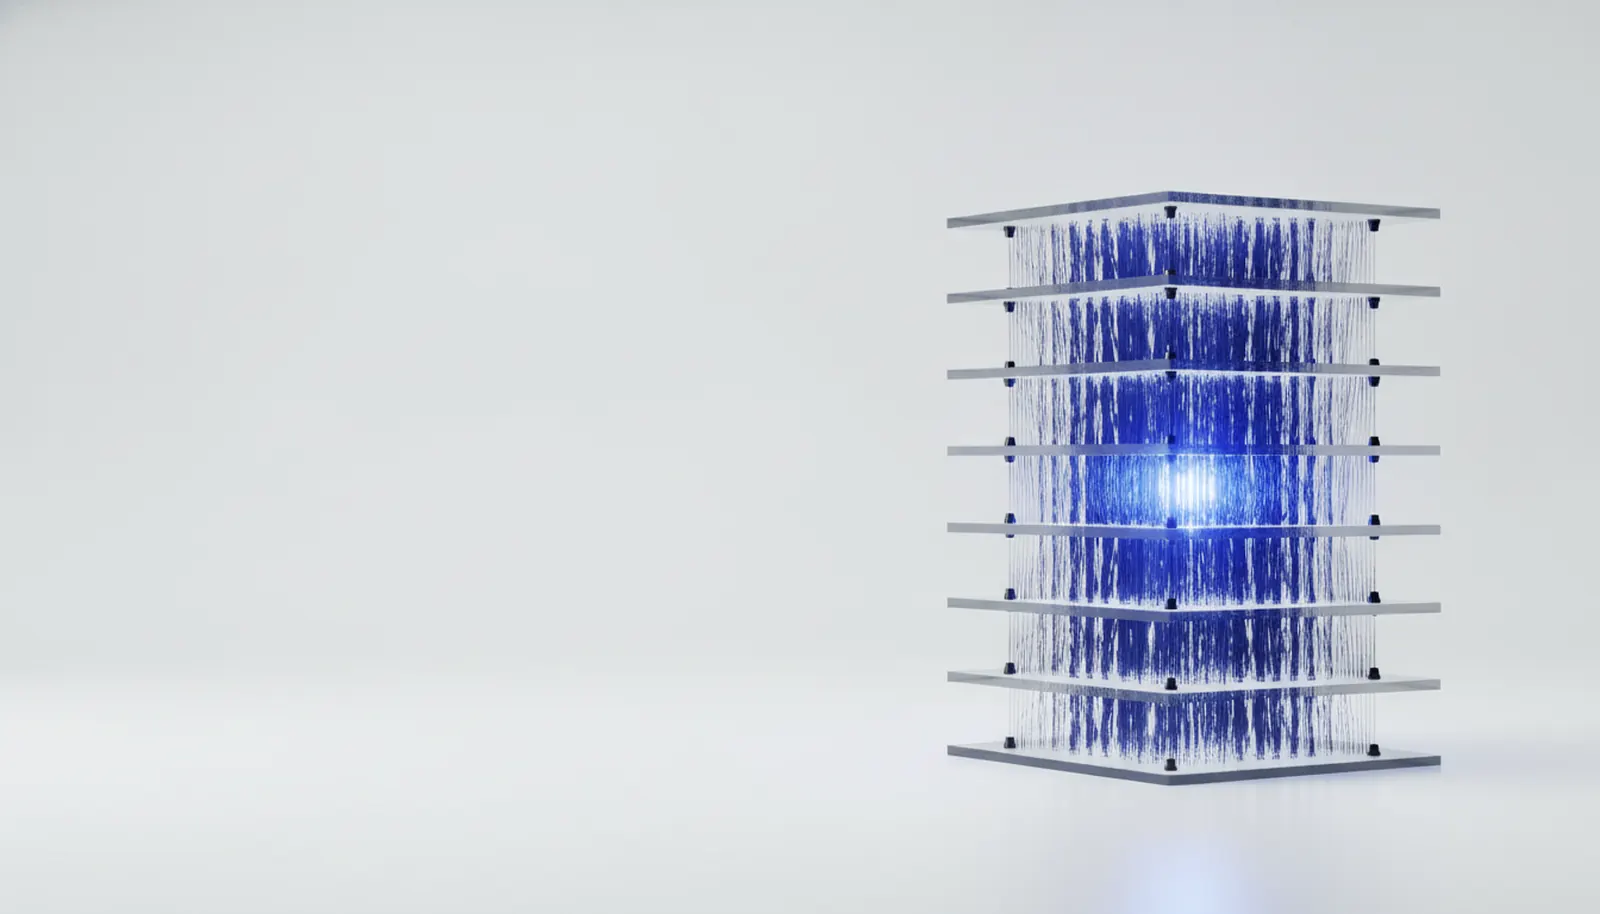
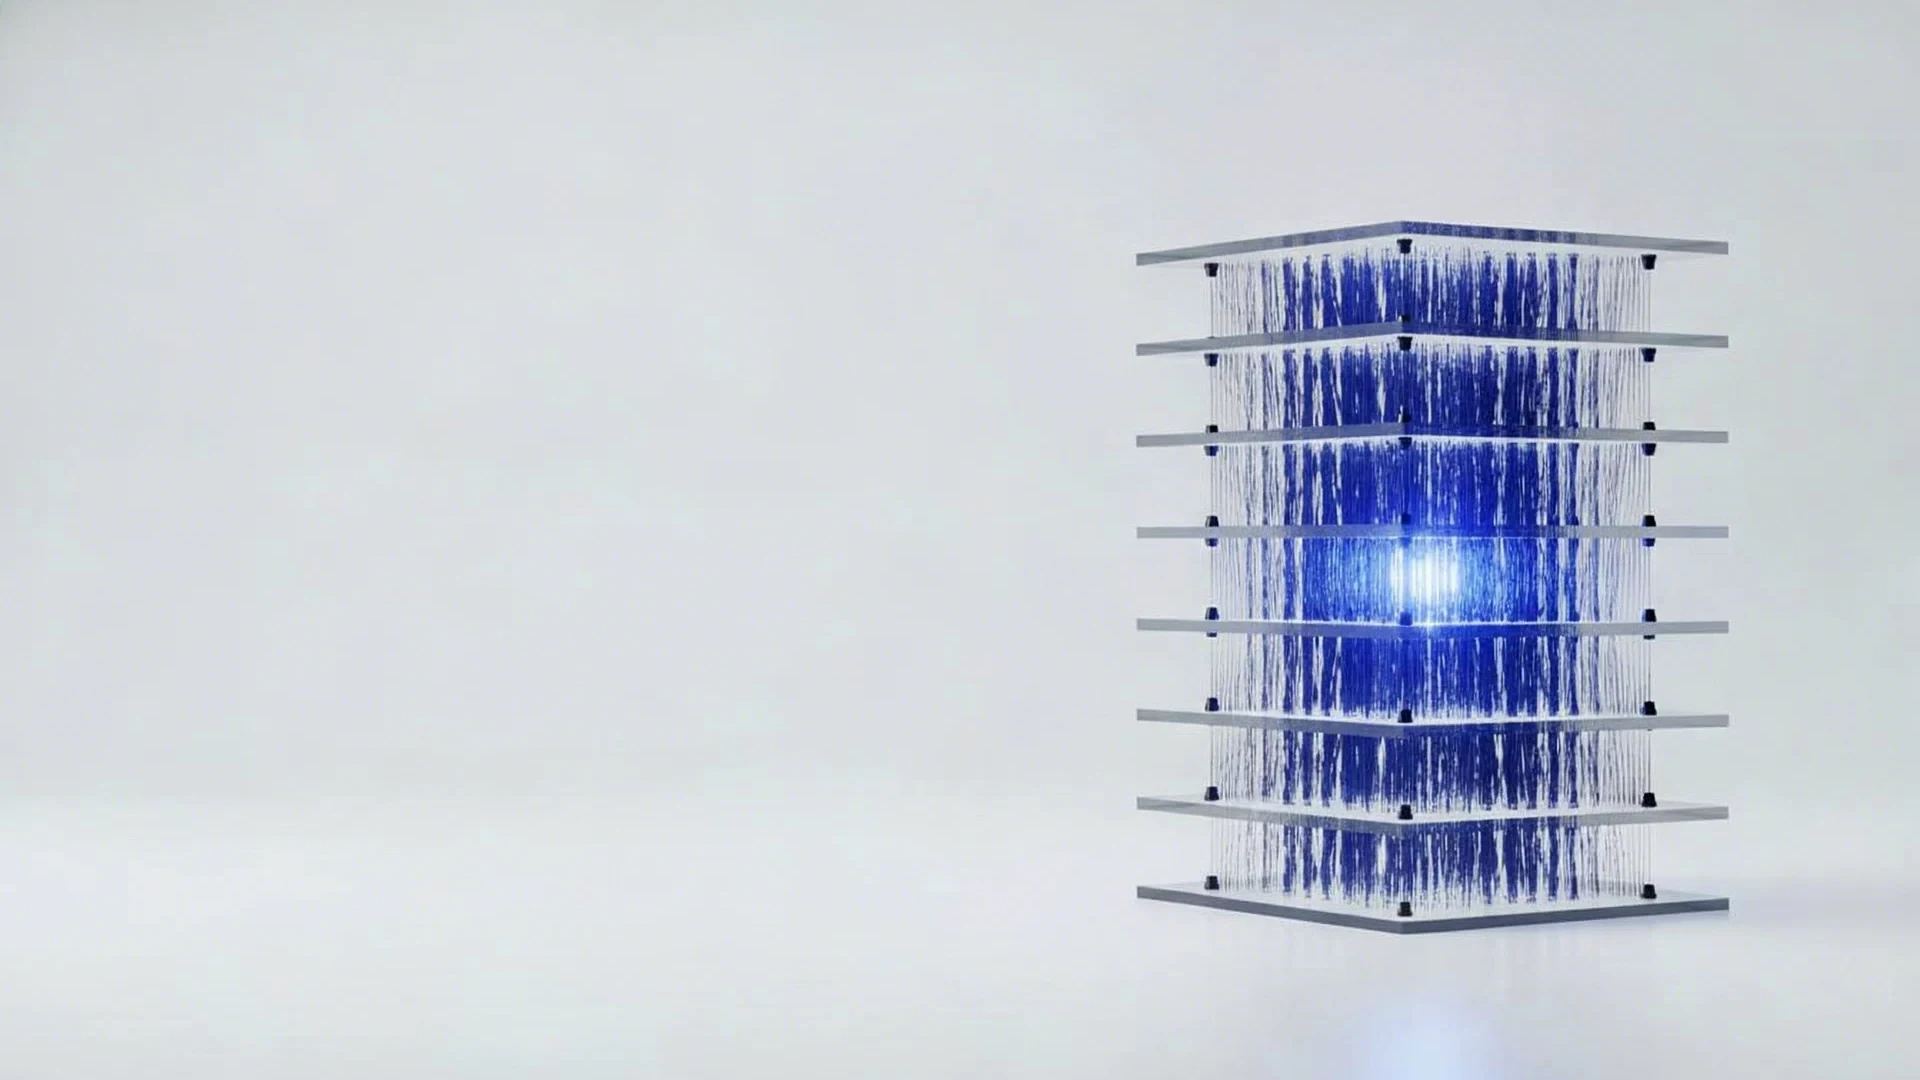
film: bind one keyframe per section, native 1080p stills, no scripted motion
Each frame is now a CSS background inside its own section, so it scrolls
with the section and is already still on arrival. The fixed stage, the
clip autoplay and film.js are gone; below 1280px the images are never
requested. Stills re-extracted from the 1920x1088 clip masters instead
of the upscaled 1344px keyframes.

Claude-Session: https://claude.ai/code/session_01MwbxEwFYbimQFEu7YzUXXt

Changed region(s): [[0.5938, 0.1838, 0.9062, 0.8884]]

diff --git a/index.html b/index.html
@@ -32,22 +32,11 @@
   <a class="skip-link" href="#main">Skip to content</a>
 
   <div class="layer wash" aria-hidden="true"></div>
-  <!-- The film. Presentational only: every still is aria-hidden and the copy
-       above never refers to it. Video elements are created by film.js and only
-       above 1280px, so a phone requests none of these bytes.
-       Each still names the clip into the next screen. Two pairs have no clip —
-       06 how and 09 faq are states whose sections moved to /clinics/, and the
-       jumps across them (05->07, 08->10) crossfade rather than invent motion. -->
-  <div class="layer film-stage" data-film aria-hidden="true">
-    <img class="film-still is-on" data-still data-section="hero" data-key="01" data-next="t0102" src="/assets/film/k01.webp" alt="" width="1600" height="914" decoding="async" />
-    <img class="film-still" data-still data-section="demand" data-key="02" data-next="t0203" src="/assets/film/k02.webp" alt="" width="1600" height="914" decoding="async" loading="lazy" />
-    <img class="film-still" data-still data-section="why" data-key="03" data-next="t0304" src="/assets/film/k03.webp" alt="" width="1600" height="914" decoding="async" loading="lazy" />
-    <img class="film-still" data-still data-section="verticals" data-key="04" data-next="t0405" src="/assets/film/k04.webp" alt="" width="1600" height="914" decoding="async" loading="lazy" />
-    <img class="film-still" data-still data-section="product" data-key="05" src="/assets/film/k05.webp" alt="" width="1600" height="914" decoding="async" loading="lazy" />
-    <img class="film-still" data-still data-section="cap" data-key="07" data-next="t0708" src="/assets/film/k07.webp" alt="" width="1600" height="914" decoding="async" loading="lazy" />
-    <img class="film-still" data-still data-section="who" data-key="08" src="/assets/film/k08.webp" alt="" width="1600" height="914" decoding="async" loading="lazy" />
-    <img class="film-still" data-still data-section="contact" data-key="10" src="/assets/film/k10.webp" alt="" width="1600" height="914" decoding="async" loading="lazy" />
-  </div>
+  <!-- The film, one keyframe per section. Presentational only: every frame is
+       an aria-hidden CSS background inside its own section, so it scrolls with
+       the section and is already still when it arrives — no script moves it.
+       The images are only referenced inside a min-width:1280px media query in
+       site.css, so a phone never requests these bytes. -->
   <div class="layer aurora" aria-hidden="true">
     <b class="b1 drift1"></b><b class="b2 drift2"></b><b class="b3 drift3"></b>
   </div>
@@ -71,7 +60,8 @@
   <main class="lp" id="main">
 
     <!-- ============================ hero ============================ -->
-    <section class="lp-hero film-screen" data-film-section>
+    <section class="lp-hero film-screen">
+      <div class="film-bg" data-bg="k01" aria-hidden="true"></div>
       <div class="wrap">
         <span class="eyebrow"><span class="dot" aria-hidden="true"></span><span>AI-ready websites</span></span>
         <h1>Your customers ask AI first. Your site should be <span class="accent">the answer</span>.</h1>
@@ -87,7 +77,8 @@
     <!-- ============================ the demand (this comes first: the world,
          then them, then us. Every figure here is external, primary-sourced and
          listed with its sample on /sources/) ================================ -->
-    <section class="lp-section film-screen" id="demand" data-film-section>
+    <section class="lp-section film-screen" id="demand">
+      <div class="film-bg" data-bg="k02" aria-hidden="true"></div>
       <div class="wrap">
         <div class="lp-head wide" data-reveal>
           <span class="eyebrow"><span class="dot" aria-hidden="true"></span><span>What changed</span></span>
@@ -123,7 +114,8 @@
 
     <!-- ============================ the mechanism (no figures — the measured
          findings live on the clinics page, where the audit was done) ======== -->
-    <section class="lp-section film-screen" id="why" data-film-section>
+    <section class="lp-section film-screen" id="why">
+      <div class="film-bg" data-bg="k03" aria-hidden="true"></div>
       <div class="wrap">
         <div class="lp-head wide" data-reveal>
           <span class="eyebrow"><span class="dot" aria-hidden="true"></span><span>Where it goes wrong</span></span>
@@ -162,7 +154,8 @@
          has to click through to find reads as a price being withheld. ==== -->
 
     <!-- ============================ verticals ============================ -->
-    <section class="lp-section film-screen" id="verticals" data-film-section>
+    <section class="lp-section film-screen" id="verticals">
+      <div class="film-bg" data-bg="k04" aria-hidden="true"></div>
       <div class="wrap">
         <div class="lp-head" data-reveal>
           <span class="eyebrow"><span class="dot" aria-hidden="true"></span><span>Who we build for</span></span>
@@ -180,7 +173,8 @@
         </div>
       </div>
     </section>
-    <section class="lp-section film-screen" id="product" data-film-section>
+    <section class="lp-section film-screen" id="product">
+      <div class="film-bg" data-bg="k05" aria-hidden="true"></div>
       <div class="wrap">
         <div class="lp-head" data-reveal>
           <span class="eyebrow"><span class="dot" aria-hidden="true"></span><span>What you get</span></span>
@@ -200,7 +194,8 @@
     <!-- ============================ how we take clients ==================
          The cap is a condition of the work, not a scarcity device. No seat
          count, no deadline, no number that could go stale. ================ -->
-    <section class="lp-section film-screen" id="cap" data-film-section>
+    <section class="lp-section film-screen" id="cap">
+      <div class="film-bg" data-bg="k07" aria-hidden="true"></div>
       <div class="wrap">
         <div class="lp-head wide" data-reveal>
           <span class="eyebrow"><span class="dot" aria-hidden="true"></span><span>How we take clients</span></span>
@@ -212,7 +207,8 @@
     </section>
 
     <!-- ============================ who builds it ============================ -->
-    <section class="lp-section film-screen" id="who" data-film-section>
+    <section class="lp-section film-screen" id="who">
+      <div class="film-bg" data-bg="k08" aria-hidden="true"></div>
       <div class="wrap">
         <div class="trust-grid">
           <div data-reveal>
@@ -231,7 +227,8 @@
 
 
     <!-- ============================ closing cta ============================ -->
-    <section class="lp-section film-screen cta-band" id="contact" data-film-section>
+    <section class="lp-section film-screen cta-band" id="contact">
+      <div class="film-bg" data-bg="k10" aria-hidden="true"></div>
       <div class="wrap">
         <div class="lp-head" data-reveal>
           <h2 class="lp-h2">Start with your own page.</h2>
@@ -263,6 +260,5 @@
   </footer>
 
   <script src="/assets/site.js"></script>
-  <script src="/assets/film.js"></script>
 </body>
 </html>

diff --git a/assets/site.css b/assets/site.css
@@ -1001,33 +1001,36 @@ body.landing .grid { display: none; }
 .form-status.is-error { color: #B3261E; }
 
 /* ------------------------------------------------------------------ the film
-   Ten held keyframes with nine transitions between them. Everything here is
-   decoration over a page that already reads without it: the stills sit behind
-   the copy, the clips sit over the stills, and both are removed from the
-   accessibility tree. Below 1280px no <video> is ever created, so the bytes
-   are not merely hidden — they are never requested. */
-.film-stage {
-  /* z-index 0, like every other .layer. -1 put it behind html/body's own
-     opaque background, where nothing could ever see it. It also has to sit
-     after .wash in the markup: that layer is a solid radial gradient, so
-     whichever of the two comes last wins, and the film is the one meant to
-     be seen. */
-  position: fixed; inset: 0; z-index: 0;
-  background: var(--bg, #F6F7F9);
-  pointer-events: none;
+   One keyframe per section, drawn as the section's own background so it
+   scrolls with the section and is already still when it arrives — nothing
+   moves after the scroll stops, because nothing here is scripted at all.
+   Decoration over a page that already reads without it: the frames live in a
+   min-width media query, so below 1280px the files are never even requested. */
+.film-screen { position: relative; }
+.film-screen > .wrap { position: relative; z-index: 1; }
+.film-bg { display: none; }
+@media (min-width: 1280px) {
+  .film-bg {
+    display: block;
+    position: absolute; inset: 0;
+    z-index: 0; pointer-events: none;
+    background-repeat: no-repeat;
+    background-size: cover;
+    /* The object lives in the right two thirds of every frame. When the
+       viewport is squarer than 16:9, cover has to crop the sides — this pulls
+       the crop from the empty left margin, so the object stays whole and the
+       copy keeps its quiet ground. */
+    background-position: 78% 50%;
+  }
+  .film-bg[data-bg="k01"] { background-image: url("/assets/film/k01.webp"); }
+  .film-bg[data-bg="k02"] { background-image: url("/assets/film/k02.webp"); }
+  .film-bg[data-bg="k03"] { background-image: url("/assets/film/k03.webp"); }
+  .film-bg[data-bg="k04"] { background-image: url("/assets/film/k04.webp"); }
+  .film-bg[data-bg="k05"] { background-image: url("/assets/film/k05.webp"); }
+  .film-bg[data-bg="k07"] { background-image: url("/assets/film/k07.webp"); }
+  .film-bg[data-bg="k08"] { background-image: url("/assets/film/k08.webp"); }
+  .film-bg[data-bg="k10"] { background-image: url("/assets/film/k10.webp"); }
 }
-.film-still, .film-clip {
-  position: absolute; inset: 0;
-  width: 100%; height: 100%;
-  object-fit: cover;
-  opacity: 0;
-  transition: opacity .45s ease;
-}
-.film-still.is-on { opacity: 1; }
-/* The first still is marked in the markup, not by script, so the film is
-   visible before any JS runs and stays visible if none ever does. */
-.film-clip.is-on  { opacity: 1; transition: none; }
-.film-clip { z-index: 1; }
 
 /* One screen per keyframe. Native scroll-snap only — nothing here listens to
    wheel or touch, so the browser's own scrolling is never taken over. */
@@ -1041,9 +1044,6 @@ body.film { scroll-snap-type: y proximity; }
 /* The tail of the page is ordinary reading, not a slideshow. */
 .film-tail { scroll-snap-align: none; }
 
-@media (prefers-reduced-motion: reduce) {
-  .film-still { transition: none; }
-}
 @media (max-width: 1279px) {
   .film-screen { min-height: auto; }
   body.film { scroll-snap-type: none; }
